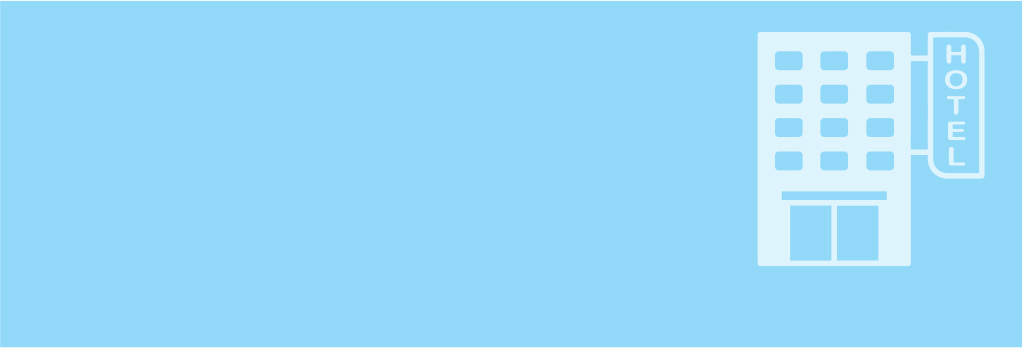
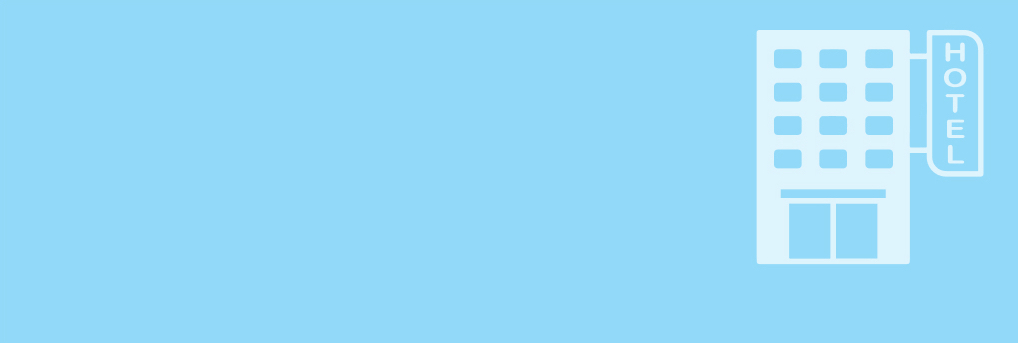
[fix] delete images white border
Ver.1.0.8

- delete images white border
- add images in scenario info page

diff --git a/lib/screens/scenarioInfoPage.dart b/lib/screens/scenarioInfoPage.dart
@@ -53,20 +53,6 @@ class _scenarioInfoPageState extends State<scenarioInfoPage> {
                       color: Colors.white,
                     ),
                   ),
-                  // SizedBox(
-                  //   width: 20,
-                  // ),
-                  // Text(
-                  //   "Scenario Info.",
-                  //   style: TextStyle(
-                  //       fontSize: 16,
-                  //       fontWeight: FontWeight.w500,
-                  //       color: Colors.grey.shade800,
-                  //       letterSpacing: 1),
-                  // ),
-                  // SizedBox(
-                  //   width: 20,
-                  // ),
                   IconButton(
                     onPressed: () {},
                     icon: Icon(
@@ -86,6 +72,21 @@ class _scenarioInfoPageState extends State<scenarioInfoPage> {
                 width: double.infinity,
                 height: 300,
                 color: Color.fromRGBO(82, 211, 204, 1),
+                child: Column(
+                  mainAxisAlignment: MainAxisAlignment.end,
+                  children: [
+                    Container(
+                        width: double.infinity,
+                        height: 300,
+                        decoration: BoxDecoration(
+                          color: Colors.transparent,
+                          image: DecorationImage(
+                              image: AssetImage('images/movies.jpg'),
+                              fit: BoxFit.cover,
+                              alignment: Alignment.centerRight),
+                        ))
+                  ],
+                ),
               ),
             ]),
           ],
